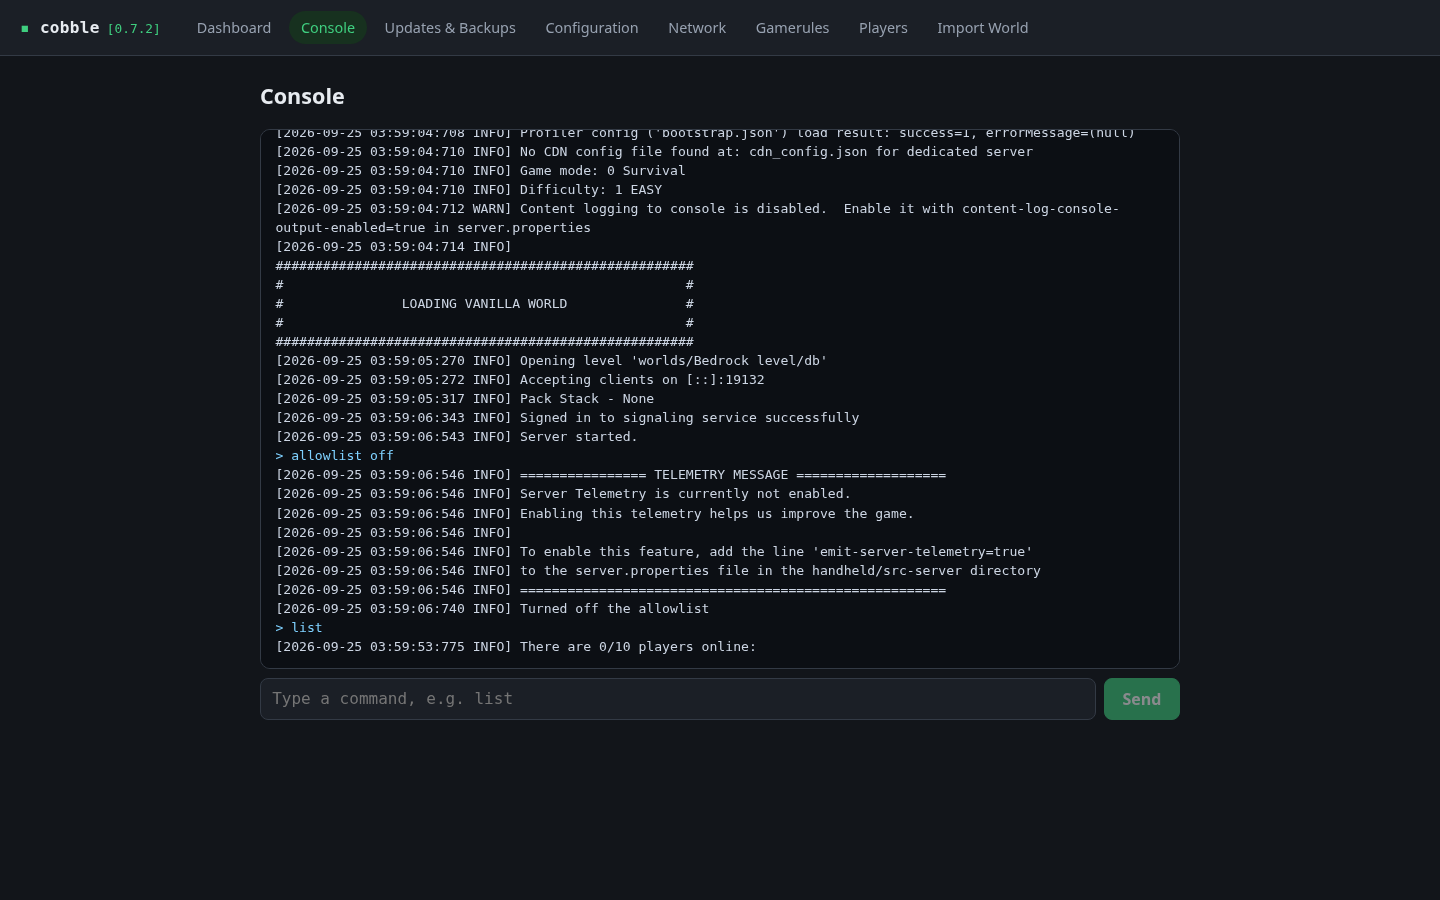
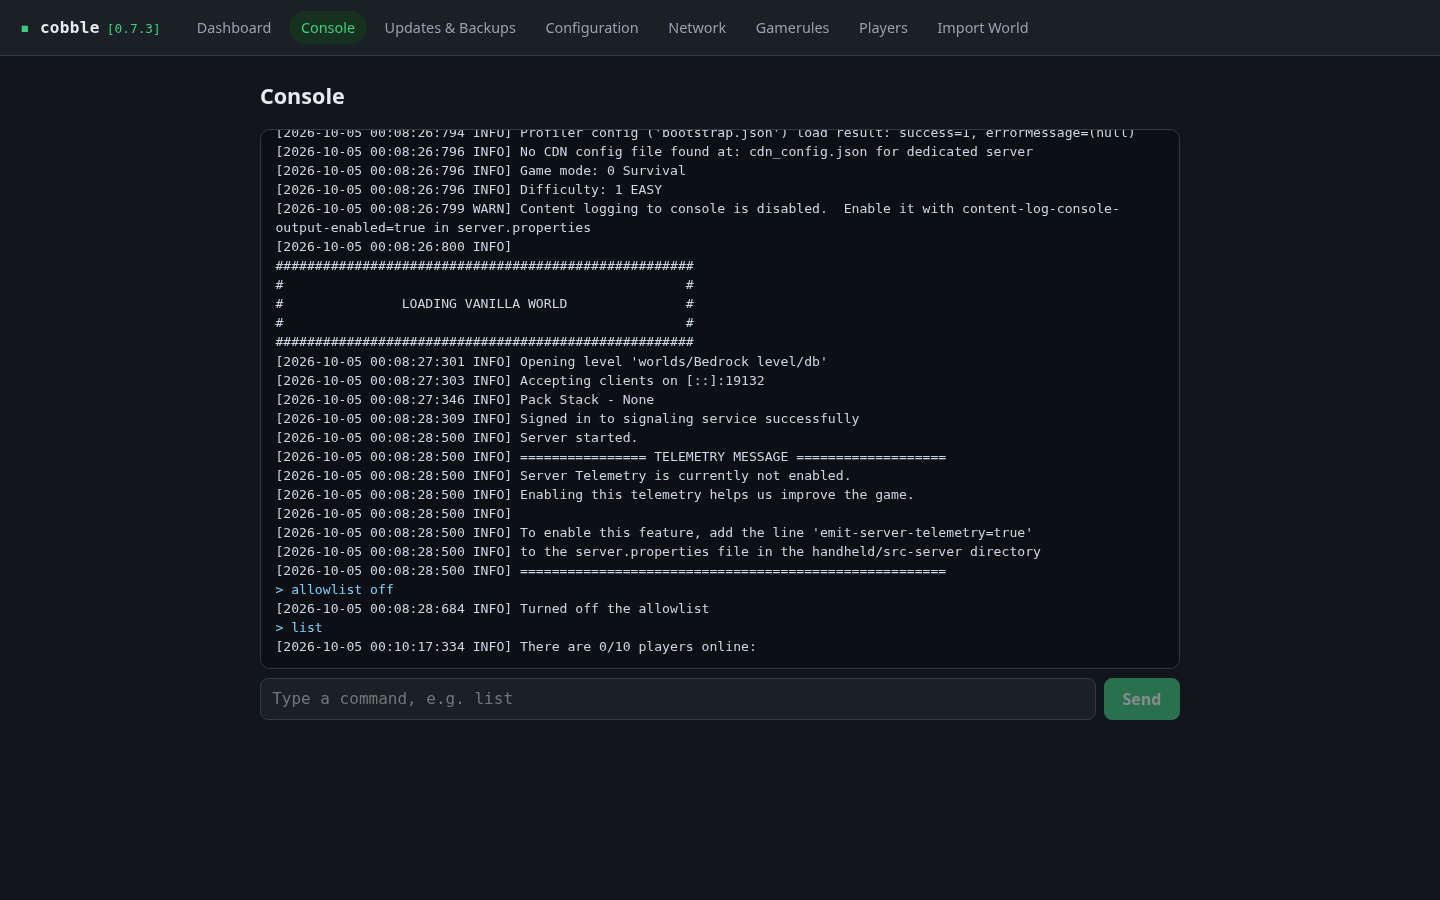
docs: retake panel screenshots on v0.7.3
All seven screenshots show the header badge at [0.7.3]; the cobble page
shows 0.7.3 installed, with its release notes. Taken from the test host at
1440x900 in dark mode, like the originals.

Also records the live verification of import-backup-archive on cobble-2
and completes the change's task list.

diff --git a/openspec/changes/import-backup-archive/tasks.md b/openspec/changes/import-backup-archive/tasks.md
@@ -48,10 +48,10 @@
 
 - [x] 8.1 Commit the implementation on `main` with a conventional-commit message and push to `origin/main`; verify `git status` is clean and `git log origin/main -1` shows the commit
 - [x] 8.2 Bump the version to 0.7.3 in `pyproject.toml`, `src/cobble/__init__.py`, and `tests/deploy/test_release_notes.py`, add a `0.7.3` CHANGELOG section (backup `.tar.gz` import as a full restore, world-folder `.tar.gz` import, cobble restarts after a restore so it runs on restored state); commit as `chore: bump version to 0.7.3` and push; verify `pytest tests/deploy` passes
-- [ ] 8.3 Tag `v0.7.3` and push the tag; verify the release workflow succeeds and `gh release view v0.7.3` lists the wheel
+- [x] 8.3 Tag `v0.7.3` and push the tag; verify the release workflow succeeds and `gh release view v0.7.3` lists the wheel
 
 ## 9. Live verification and screenshots
 
-- [ ] 9.1 Upgrade the test host (cobble-2, 10.0.1.165) to 0.7.3 (install the wheel by path); verify the header badge reads 0.7.3
-- [ ] 9.2 On the test host: download a backup, change a setting and the world, import the downloaded `.tar.gz`, and confirm cobble restarts, the world/settings/player history match the backup, backup history is the host's own, and the server's run state is as before; also import a world-folder `.tar.gz` and a backup with two worlds (refused); record the results in the change
-- [ ] 9.3 Retake all seven `docs/screenshots/` (cobble, configuration, console, dashboard, gamerules, network, updates) on the test host at 1440x900 in dark mode showing 0.7.3; commit as `docs: retake panel screenshots on v0.7.3` and push to `main`; verify the badge reads 0.7.3 in each image
+- [x] 9.1 Upgrade the test host (cobble-2, 10.0.1.165) to 0.7.3 (install the wheel by path); verify the header badge reads 0.7.3
+- [x] 9.2 On the test host: download a backup, change a setting and the world, import the downloaded `.tar.gz`, and confirm cobble restarts, the world/settings/player history match the backup, backup history is the host's own, and the server's run state is as before; also import a world-folder `.tar.gz` and a backup with two worlds (refused); record the results in the change
+- [x] 9.3 Retake all seven `docs/screenshots/` (cobble, configuration, console, dashboard, gamerules, network, updates) on the test host at 1440x900 in dark mode showing 0.7.3; commit as `docs: retake panel screenshots on v0.7.3` and push to `main`; verify the badge reads 0.7.3 in each image

diff --git a/openspec/changes/import-backup-archive/live-verification.md b/openspec/changes/import-backup-archive/live-verification.md
@@ -1,0 +1,19 @@
+# Live verification on cobble-2 (task 9.2)
+
+Run 2026-10-05 against cobble-2 (10.0.1.165) upgraded to the published v0.7.3, Bedrock 1.26.52.3.
+
+| Check | Result |
+|---|---|
+| Backup captured on the host and downloaded through `GET /api/backups/{archive}` (21.6 MB) | ok |
+| That backup uploaded to Import World: the host has two worlds (`Bedrock level`, `Test World Two`) | refused: "the archive is ambiguous: it contains 2 Bedrock worlds" |
+| Same backup repacked with one world, uploaded | held as `form: tar`, `kind: backup`, capture time and version 1.26.52.3 reported |
+| Changed after the backup: `server-name`, `backup_retention` 7 -> 9, a marker file in the world; backup history 12 entries (the backup holds 11) | - |
+| Apply | `ok`, `restarting: true`, safety capture named |
+| cobble restart | went down 3 s after the response, back 4 s later (systemd "restart counter is at 1"); journal: staged restore applied before startup, gamerule restore marker set for `Bedrock level`, previously-running server restored |
+| After the restart | server running; `server-name` back to "Dedicated Server"; retention back to 7; world marker gone; backup history still 12 (destination's own); `runtime.json` = desired running; payload symlinks recreated |
+| World-folder `.tar.gz` (`Bedrock level/`) | held as `kind: world`; applied with `restarting: false`; server running afterwards |
+| Safety captures taken while an upload was held | 21.6 MB, the same as an ordinary backup (upload not included) |
+
+Not covered live: player-history continuity after a restore needs a joined player, and the test bot cannot join a NetherNet server. This is covered by `tests/backup/test_pending_startup.py` and the restore unit tests.
+
+Side effect on the host: the restore removed `Test World Two` from cobble-2. It is kept in the safety capture `cobble-backup-20261005T000750.653954Z.tar.gz`.
